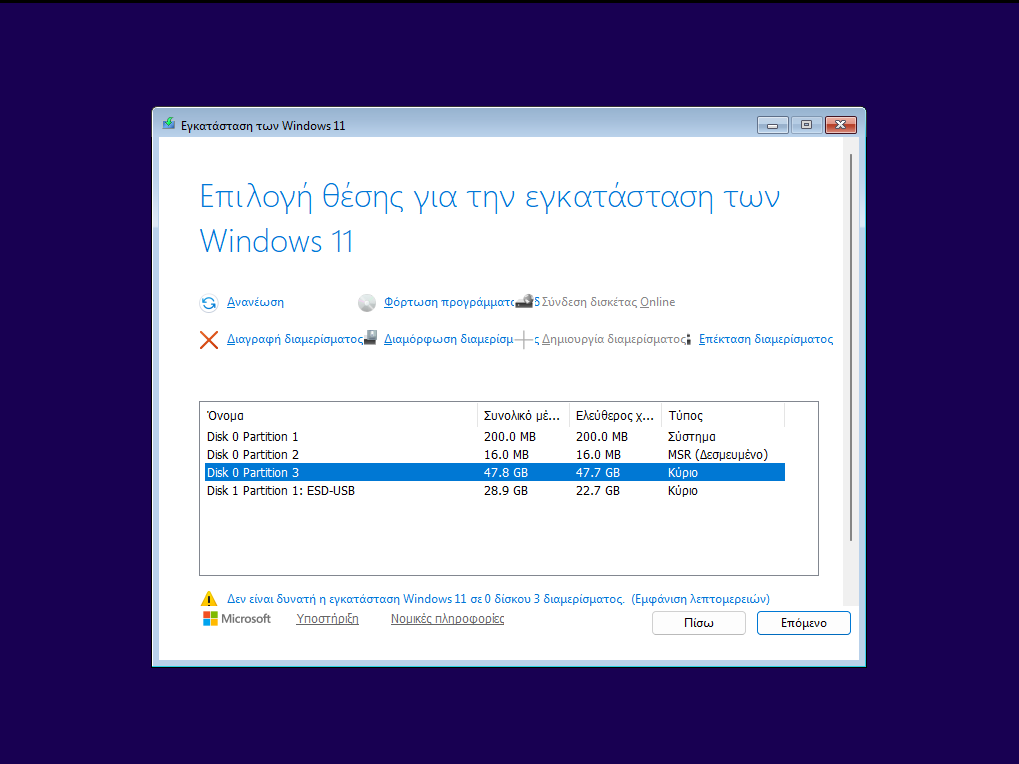
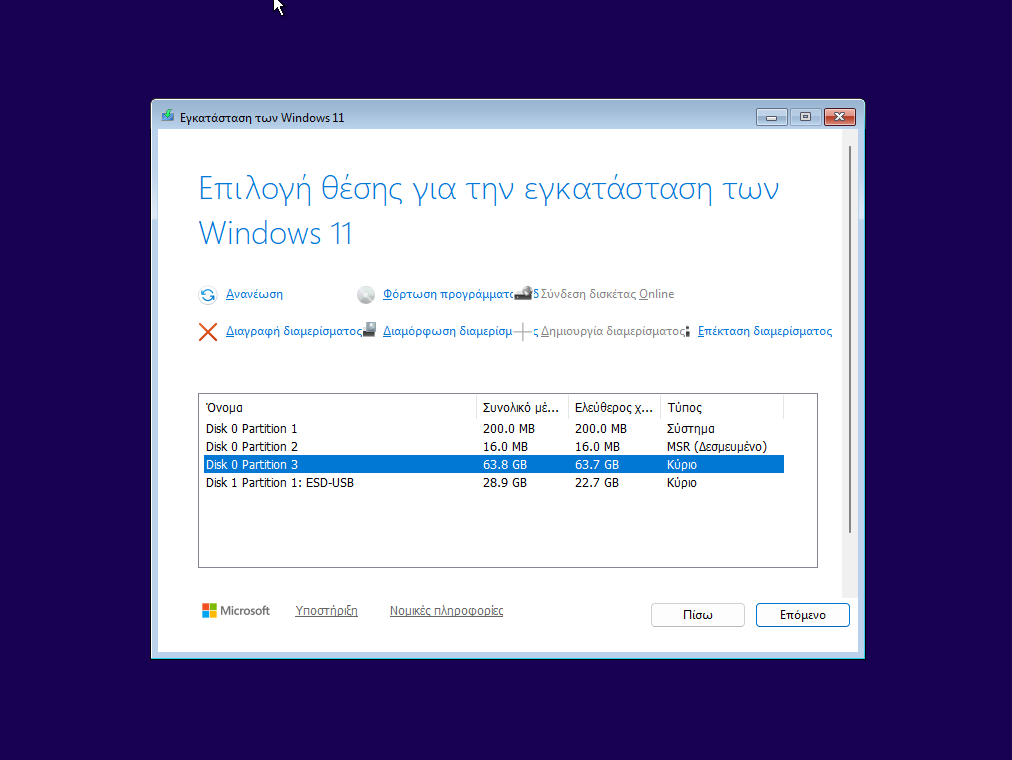
Installation of win11 images and typos correction

diff --git a/docs/client/installation/manual/index.md b/docs/client/installation/manual/index.md
@@ -3,29 +3,53 @@
 ## Ρύθμιση γλώσσας
 
 [![Setup language screen](01-setup-language.png)](01-setup-language.png)
-[![Setup keyboard screen](01b-setup-keyboard.png)](01b-setup-keyboard.png)
+{.clear}
 
-Κατά την αρχική εγκατάσταση ζητείται η ρύθμιση της γλώσσας. Επιλέξτε τα ακόλουθα:
+Κατά την αρχική εγκατάσταση, στο παράθυρο **Επιλογή ρυθμίσεων γλώσσας** επιλέξτε τα ακόλουθα:
 
 - Γλώσσα προς εγκατάσταση: ***Ελληνικά (Ελλάδας)***
 
-- Μορφή Ώρας και Νομισματική Μονάδα: ***Ελληνικά (Ελλάδας)***
+- Μορφή ώρας και νομισματικής μονάδας: ***Ελληνικά (Ελλάδας)***
 
-- Πληκτρολόγιο ή μέθοδος εισαγωγής: ***Ηνωμένων Πολιτειών***
+[![Setup keyboard screen](01b-setup-keyboard.png)](01b-setup-keyboard.png)
+{.clear}
+
+Στο παράθυρο **Επιλογή ρυθμίσεων πληκτρολογίου** επιλέξτε:
+
+- Πληκτρολόγιο ή μέθοδος εισόδου: ***Ηνωμένων Πολιτειών***
 
 ## Εκκίνηση Εγκατάστασης
 
 [![Setup start screen](02-setup-start.png)](02-setup-start.png)
+{.clear}
 
-Επιλέγετε ***Εγκατάσταση των Windows 11*** στη συνέχεια ***Συμφων΄ώ να διαγραφούν όλα, συμπεριλαμβανομένων των αρχείων, των εφαρμογών και των ρυθμίσεων*** και κατόπιν **Επόμενο**.
+Επιλέγετε 
+
+- ***Εγκατάσταση των Windows 11***
+
+- ***[✔] Συμφωνώ να διαγραφούν όλα, συμπεριλαμβανομένων των αρχείων, των εφαρμογών και των ρυθμίσεων*** 
+
+- Επιλέξτε **Επόμενο**.
 
 [![Setup windows key](02b-setup-windows-key.png)](02b-setup-windows-key.png)
+{.clear}
 
-Εάν διαθέτετε το κλειδί των Windows πληκτρολογήστε το, αλλιώς επιλέξτε ***Δεν διαθέτω αριθμό-κλειδί προϊόντος*** και στη συνέχεια επιλέξτε ***Επόμενο***
+Στο παράθυρο **Κλειδί προϊόντος**:
+
+- Εάν διαθέτετε το κλειδί των Windows πληκτρολογήστε το, 
+
+- Αλλιώς επιλέξτε ***Δεν διαθέτω αριθμό-κλειδί προϊόντος*** 
+
+- Στη συνέχεια επιλέξτε ***Επόμενο***
 
 [![Setup windows edition iso](02c-setup-windows-iso.png)](02c-setup-windows-iso.png)
+{.clear}
 
-Στην ερώτηση για Επιλογή ειδώλου, επιλέξτε ***Windows 11 Pro*** και στη συνέχεια επιλέξτε ***Επόμενο***
+Στο παράθυρο **Επιλογή ειδώλου** , επιλέξτε:
+
+- ***Windows 11 Pro***
+
+- ***Επόμενο***
 
 [![Accept license screen showing Windows installer license agreement in Greek with a checked acceptance box and Next button](03-accept-license.png)](03-accept-license.png)
 {.clear}
@@ -45,7 +69,9 @@
 [![Setup ready screen](06b-setup-ready.png)](06b-setup-ready.png)
 {.clear}
 
-Το επόμενο βήμα είναι η ανακεφαλαίωση των παραπάνω επιλογών. Επιλέξτε ***Εγκατάσταση***.
+Στο παράθυρο **Έτοιμοι για εγκατάσταση** υπάρχει η ανακεφαλαίωση των παραπάνω επιλογών:
+
+- Επιλέξτε ***Εγκατάσταση***.
 
 [![Setup copy files screen](07-setup-copy-files.png)](07-setup-copy-files.png)
 {.clear}
@@ -90,10 +116,9 @@
 [![Ρύθμιση για τομέα](11b-setup-domain.png)](11b-setup-domain.png)
 
 [![Ορισμός τομέα](11c-setup-domain.png)](11c-setup-domain.png)
-
 {.clear}
 
-Στo παράθυρο **Ας ορίσουμε τις ρυθμίσεις για την εργασία ή το σχολείο**:
+Στo παράθυρο **Ας ορίσουμε τις ρυθμίσεις για την εργασία ή το σχολείο σας**:
 
 - Επιλέξτε ***Επιλογές εισόδου*** και ***Σύνδεση σε τομέα***
 
@@ -102,7 +127,7 @@
 
 Στο παράθυρο **Ποιος θα χρησιμοποιεί αυτήν τη συσκευή**:
 
-- Ορίστε το όνομα χρήστη **localadm** και τον κωδικό του και απαντήστε στις 3 ερωτήσεις που θα επιλέξετε για την επαλήθευση των στοιχείων του. Καταγράψτε και αποθηκεύστε σε χαρτί τις απαντήσεις ώστε να είναι διαθέσιμες αν ποτέ τις χρειαστείτε.
+- Ορίστε το όνομα χρήστη **localadmin** και τον κωδικό του και απαντήστε στις 3 ερωτήσεις που θα επιλέξετε για την επαλήθευση των στοιχείων του. Καταγράψτε και αποθηκεύστε σε χαρτί τις απαντήσεις ώστε να είναι διαθέσιμες αν ποτέ τις χρειαστείτε.
 
 !!! tip "Συμβουλή"
     Προτείνεται η χρήση κωδικού τουλάχιστον 8 χαρακτήρων, που να περιλαμβάνει πεζούς και κεφαλαίους λατινικούς χαρακτήρες, σημεία στίξης και αριθμούς (π.χ. **Changem3!**).